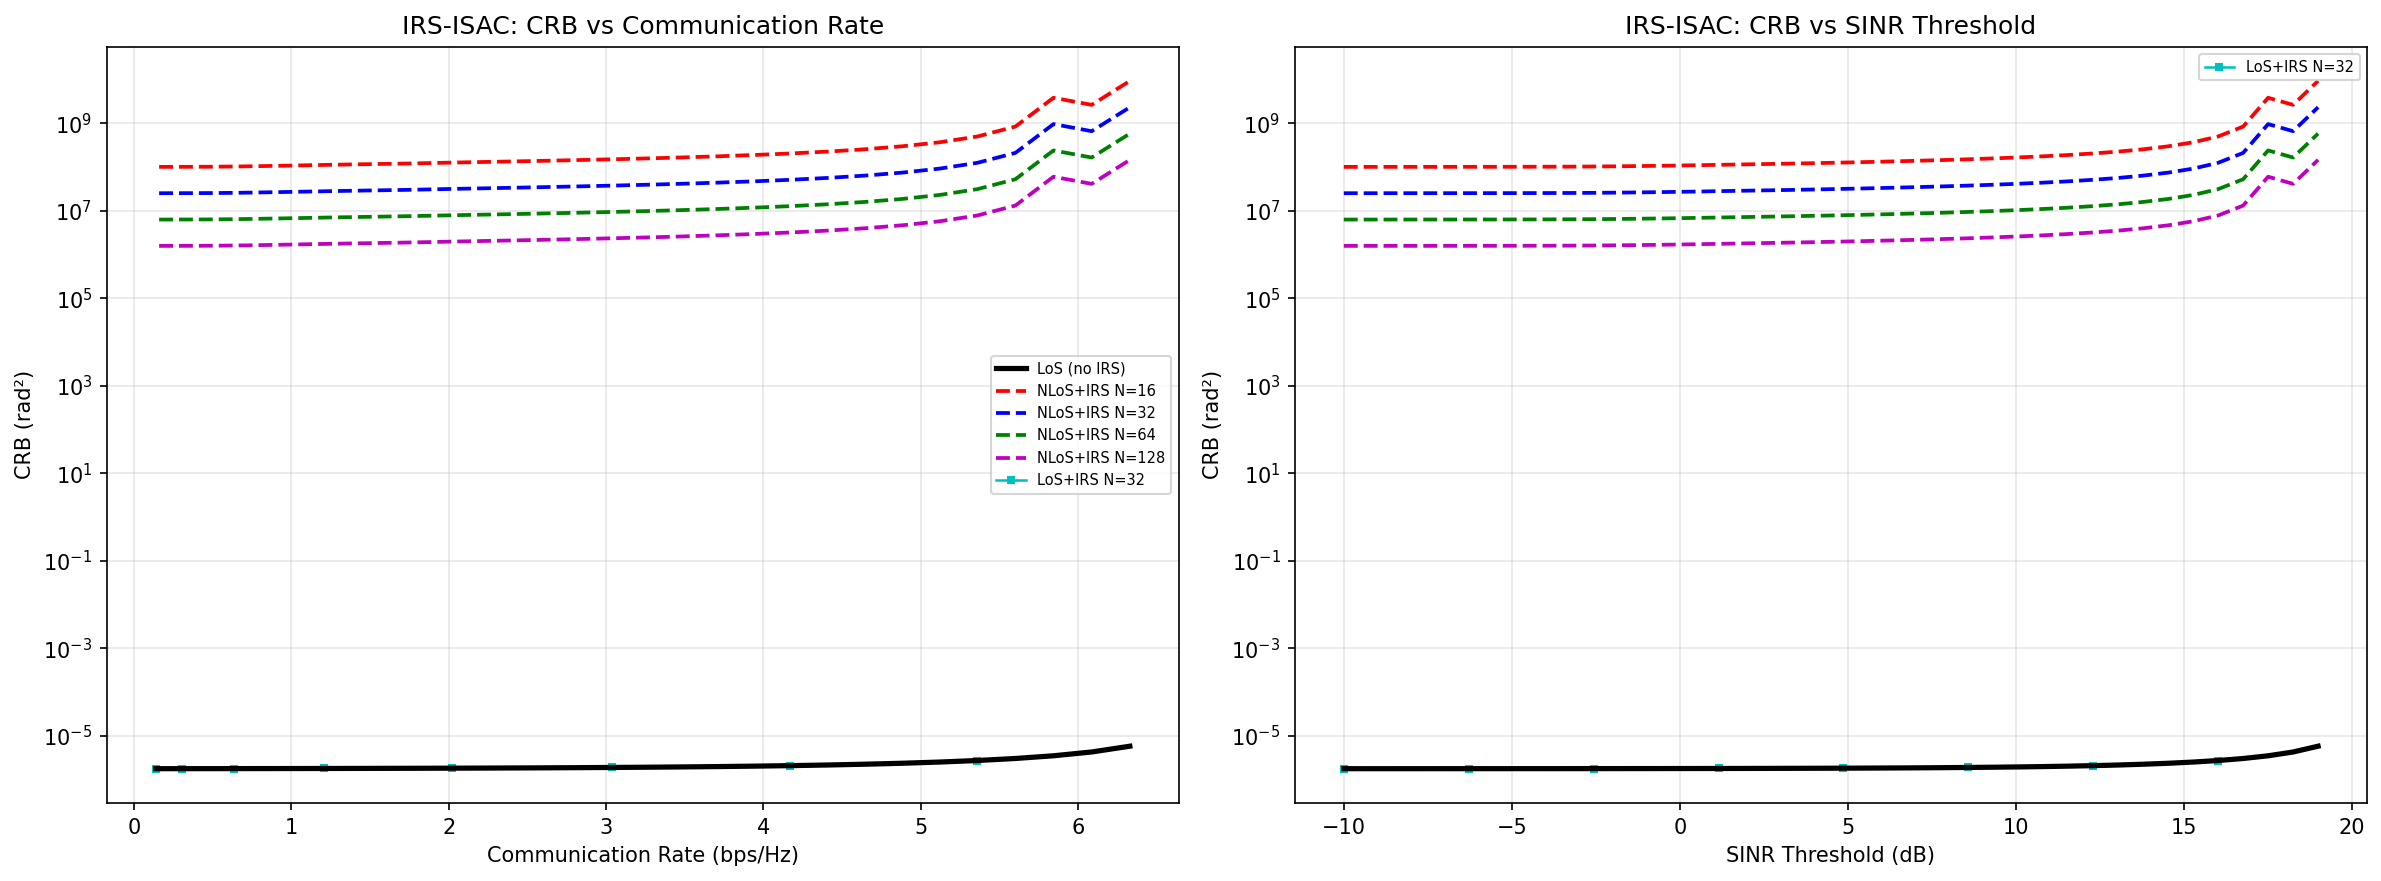
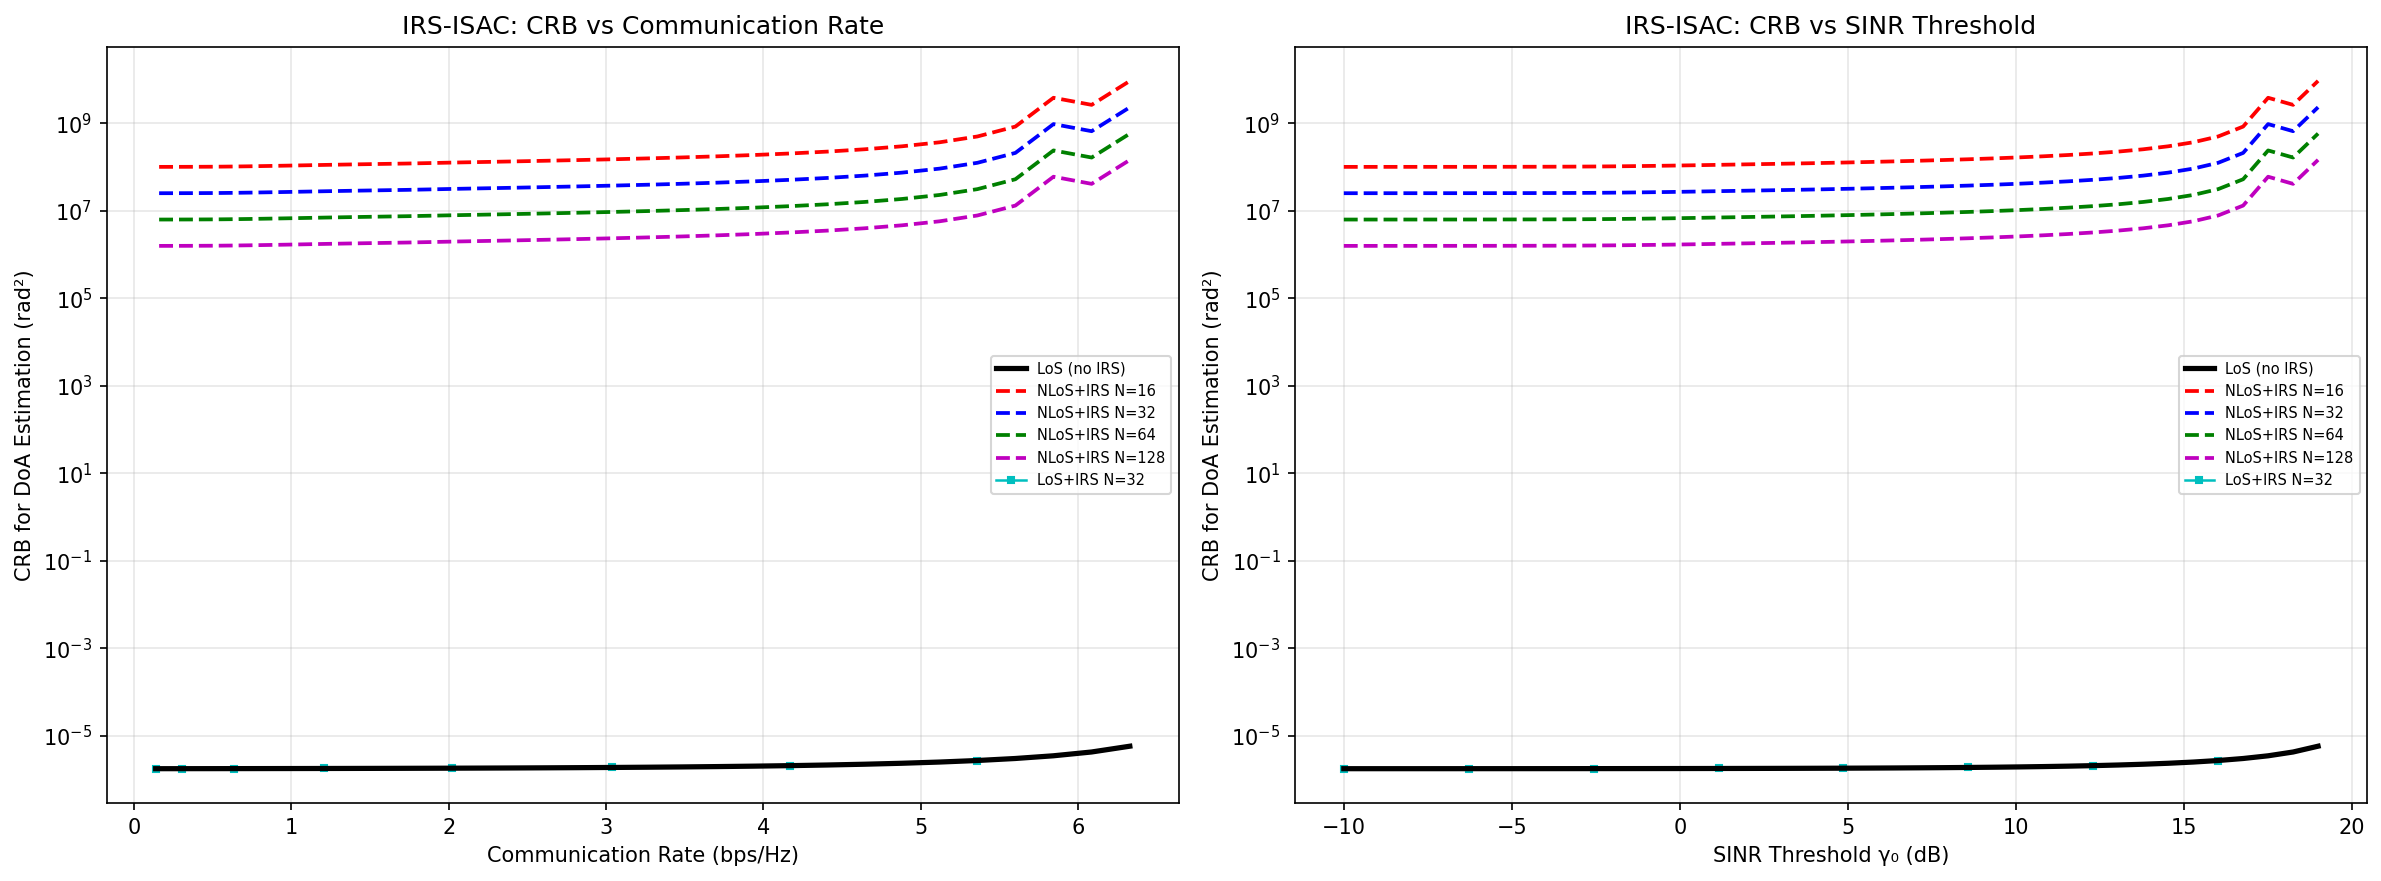
fix: correct LoS+IRS color detection in plot
- Fix substring bug where 'LoS+IRS' in 'NLoS+IRS' caused all curves to match
- Regenerate comparison plot with correct colors

diff --git a/plot_irs.py b/plot_irs.py
@@ -33,7 +33,7 @@ def plot_irs_comparison(data_no_irs, data_irs_list, labels=None,
     # ---- NLoS+IRS curves: colored dashed lines ----
     nlos_idx = 0
     for i, d in enumerate(data_irs_list):
-        if d is None or (labels and "LoS+IRS" in labels[i]):
+        if d is None or (labels and labels[i].startswith("LoS+IRS")):
             continue
         s = np.argsort(d['rate'])
         style = LINE_STYLES["nlos_irs"][nlos_idx % len(LINE_STYLES["nlos_irs"])]
@@ -44,7 +44,7 @@ def plot_irs_comparison(data_no_irs, data_irs_list, labels=None,
 
     # ---- LoS+IRS: markers on solid line to show overlap with baseline ----
     for i, d in enumerate(data_irs_list):
-        if d is None or not (labels and "LoS+IRS" in labels[i]):
+        if d is None or not (labels and labels[i].startswith("LoS+IRS")):
             continue
         s = np.argsort(d['rate'])
         lbl = labels[i]